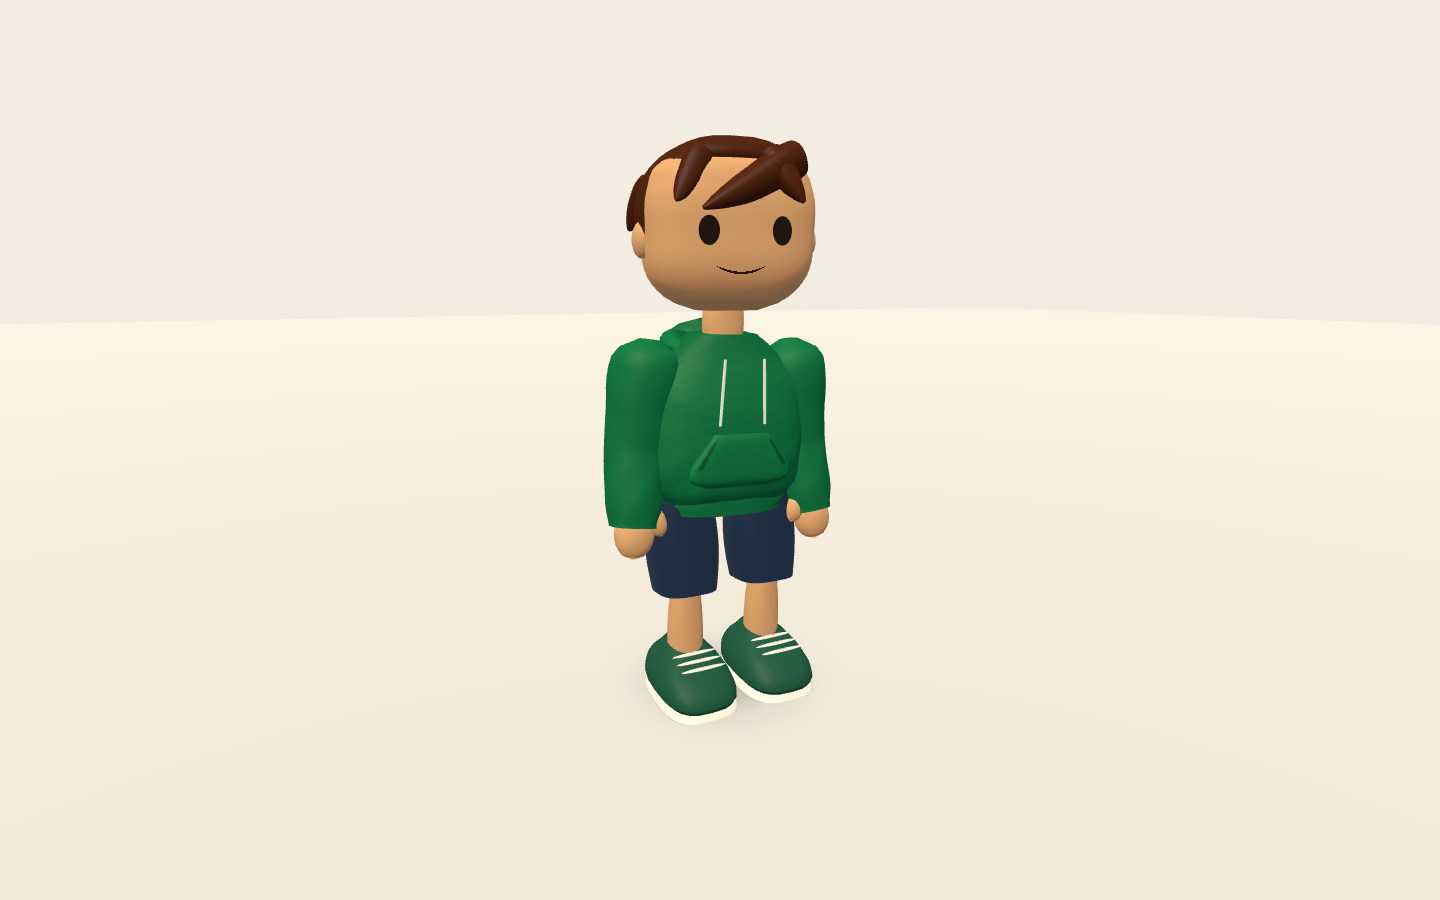
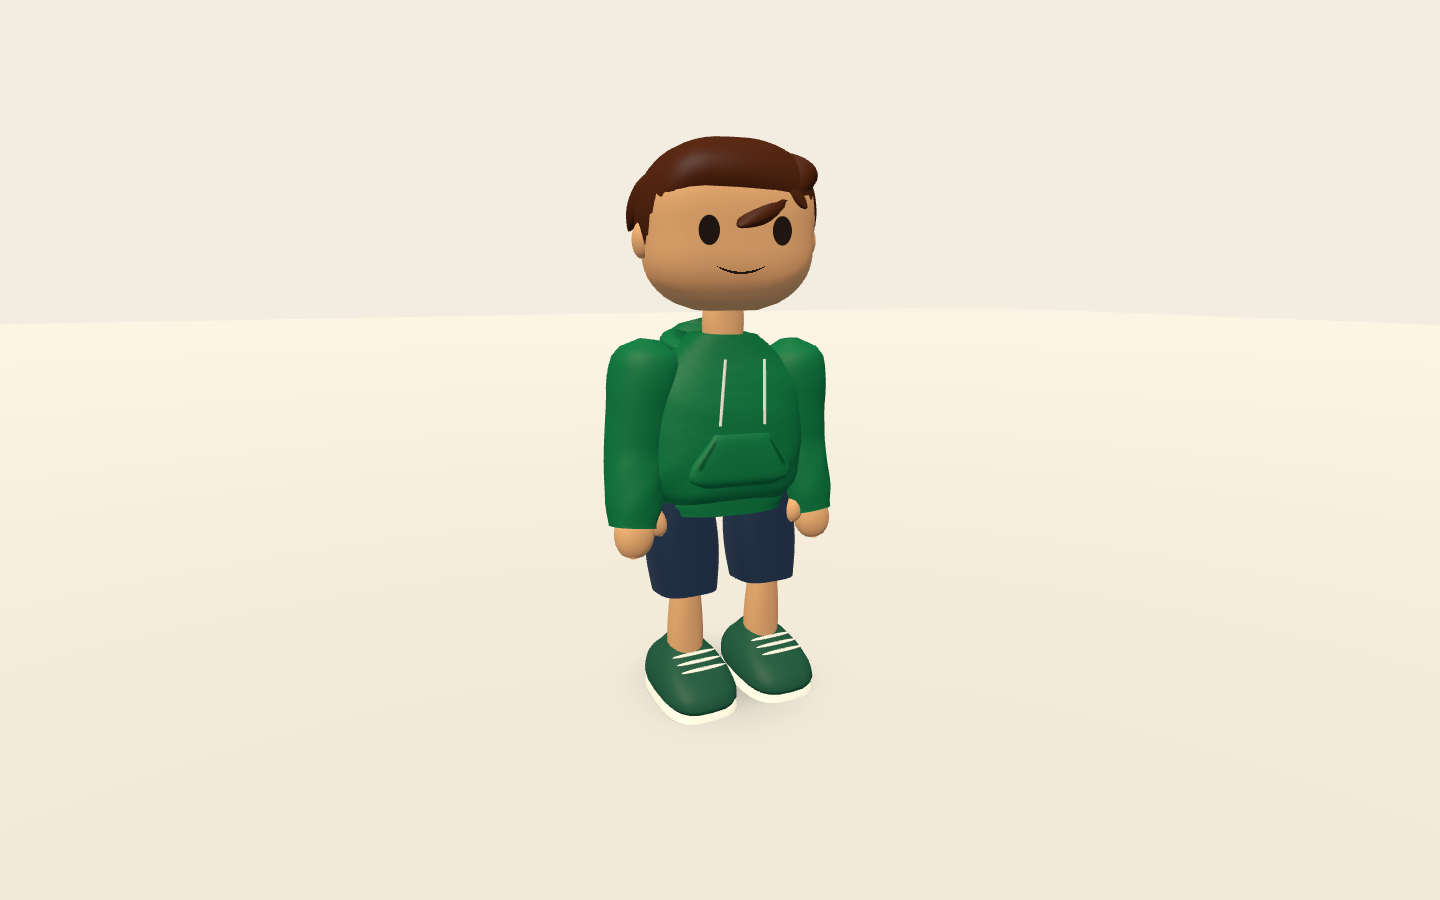
task 3b: integrate hero hair fringe

Changed region(s): [[0.4375, 0.1556, 0.5938, 0.2489]]

diff --git a/src/renderer/hero_character.rs b/src/renderer/hero_character.rs
@@ -165,15 +165,27 @@ fn piece(
 }
 
 /// Add one chunky lock with an explicit buried root and free tip. Hair is
-/// authored in head-local coordinates so its attachment remains legible when
-/// the cap or face is reviewed from another camera.
-fn hair_lock(parts: &mut Vec<Part>, root: Vec3, tip: Vec3, width: f32, depth: f32) {
+/// authored in head-local coordinates, with a roll that chooses the plane of
+/// its modeled bow, so its attachment remains legible from another camera.
+fn hair_lock(
+    parts: &mut Vec<Part>,
+    root: Vec3,
+    tip: Vec3,
+    width: f32,
+    depth: f32,
+    bend_roll: f32,
+) {
     let direction = tip - root;
     let length = direction.length();
-    if !direction.is_finite() || !length.is_finite() || length <= 0.0001 {
+    if !direction.is_finite()
+        || !length.is_finite()
+        || length <= 0.0001
+        || !bend_roll.is_finite()
+    {
         return;
     }
-    let rotation = Quat::from_rotation_arc(Vec3::Y, direction / length);
+    let rotation = Quat::from_rotation_arc(Vec3::Y, direction / length)
+        * Quat::from_rotation_y(bend_roll);
     parts.push(Part {
         anchor: Anchor {
             joint: JointId::Head,
@@ -349,8 +361,8 @@ pub(super) fn finish(parts: &mut Vec<Part>) {
     );
     add(
         Head,
-        Vec3::new(0.0, 0.18, 0.10),
-        Vec3::new(1.08, 0.80, 0.91),
+        Vec3::new(0.0, 0.18, 0.06),
+        Vec3::new(1.08, 0.80, 0.99),
         Shape::HairCap,
         Tint::Hair,
         0.0,
@@ -360,24 +372,27 @@ pub(super) fn finish(parts: &mut Vec<Part>) {
     // casual direction instead of five detached forehead leaves.
     hair_lock(
         parts,
-        Vec3::new(-0.34, 0.42, -0.31),
-        Vec3::new(0.22, 0.13, -0.48),
-        0.25,
-        0.23,
+        Vec3::new(-0.38, 0.38, -0.22),
+        Vec3::new(0.02, 0.04, -0.45),
+        0.22,
+        0.32,
+        0.05,
     );
     hair_lock(
         parts,
-        Vec3::new(-0.18, 0.43, -0.31),
-        Vec3::new(-0.34, 0.17, -0.47),
+        Vec3::new(-0.15, 0.34, -0.19),
+        Vec3::new(-0.38, 0.15, -0.38),
         0.20,
-        0.18,
+        0.26,
+        -0.55,
     );
     hair_lock(
         parts,
-        Vec3::new(0.20, 0.43, -0.28),
-        Vec3::new(0.36, 0.17, -0.43),
+        Vec3::new(0.20, 0.39, -0.22),
+        Vec3::new(0.38, 0.20, -0.32),
         0.19,
-        0.18,
+        0.25,
+        0.45,
     );
     hair_lock(
         parts,
@@ -385,6 +400,7 @@ pub(super) fn finish(parts: &mut Vec<Part>) {
         Vec3::new(-0.54, 0.03, 0.46),
         0.14,
         0.22,
+        -0.30,
     );
     hair_lock(
         parts,
@@ -392,6 +408,7 @@ pub(super) fn finish(parts: &mut Vec<Part>) {
         Vec3::new(0.54, 0.08, 0.43),
         0.14,
         0.22,
+        0.35,
     );
 }
 
@@ -483,7 +500,7 @@ mod tests {
     }
 
     #[test]
-    fn authored_hair_locks_have_buried_roots_and_bounded_transforms() {
+    fn authored_hair_locks_have_bounded_roots_and_finite_transforms() {
         let recipe = body_recipe(BodyId::Person);
         let parts = super::super::character::parts_for(
             &recipe,

diff --git a/src/renderer/hero_geometry.rs b/src/renderer/hero_geometry.rs
@@ -190,8 +190,10 @@ fn surface(shape: Shape, t: f32, angle: f32) -> Vec3 {
             }
         }
         Shape::HairCap => {
-            p.y += (-sin).max(0.0).powi(3) * (1.0 - t) * 0.68;
-            p.y += (1.0 + (angle * 5.0 + 0.6).sin()) * 0.07 * (1.0 - t).powi(3);
+            let front = (-sin).max(0.0).powi(3);
+            p.y += front * (1.0 - t) * (0.40 + cos * 0.08);
+            p.y +=
+                (1.0 + (angle * 5.0 + 0.6).sin()) * 0.04 * (1.0 - t).powi(3);
             // Two broad, shallow contour changes keep the back cap from
             // reading as a perfectly smooth helmet without adding strand
             // noise to the silhouette.
@@ -199,9 +201,9 @@ fn surface(shape: Shape, t: f32, angle: f32) -> Vec3 {
         }
         Shape::HairLock => {
             // The authored transform supplies the root-to-tip sweep. This
-            // small cross-section bow keeps the lock soft without turning it
-            // into a second banana-shaped centerline.
-            p.x += (t * std::f32::consts::PI).sin() * 0.045;
+            // art-directed centerline bow keeps the lock soft without turning
+            // it into a detailed strand simulation.
+            p.x += (t * std::f32::consts::PI).sin() * 0.16;
         }
         Shape::Shoe => {
             p.z = (p.z + t * 0.14 - 0.03) * 0.95;
@@ -348,8 +350,15 @@ mod tests {
                         .all(|i| (*i as usize) < mesh.vertices.len())
                 );
                 assert!(mesh.bounds_min.cmpge(Vec3::splat(-0.51)).all());
+                let maximum_extent = if shape == Shape::HairLock {
+                    0.55
+                } else {
+                    0.51
+                };
                 assert!(
-                    mesh.bounds_max.cmple(Vec3::splat(0.51)).all(),
+                    mesh.bounds_max
+                        .cmple(Vec3::splat(maximum_extent))
+                        .all(),
                     "{shape:?}: {:?}",
                     mesh.bounds_max
                 );
